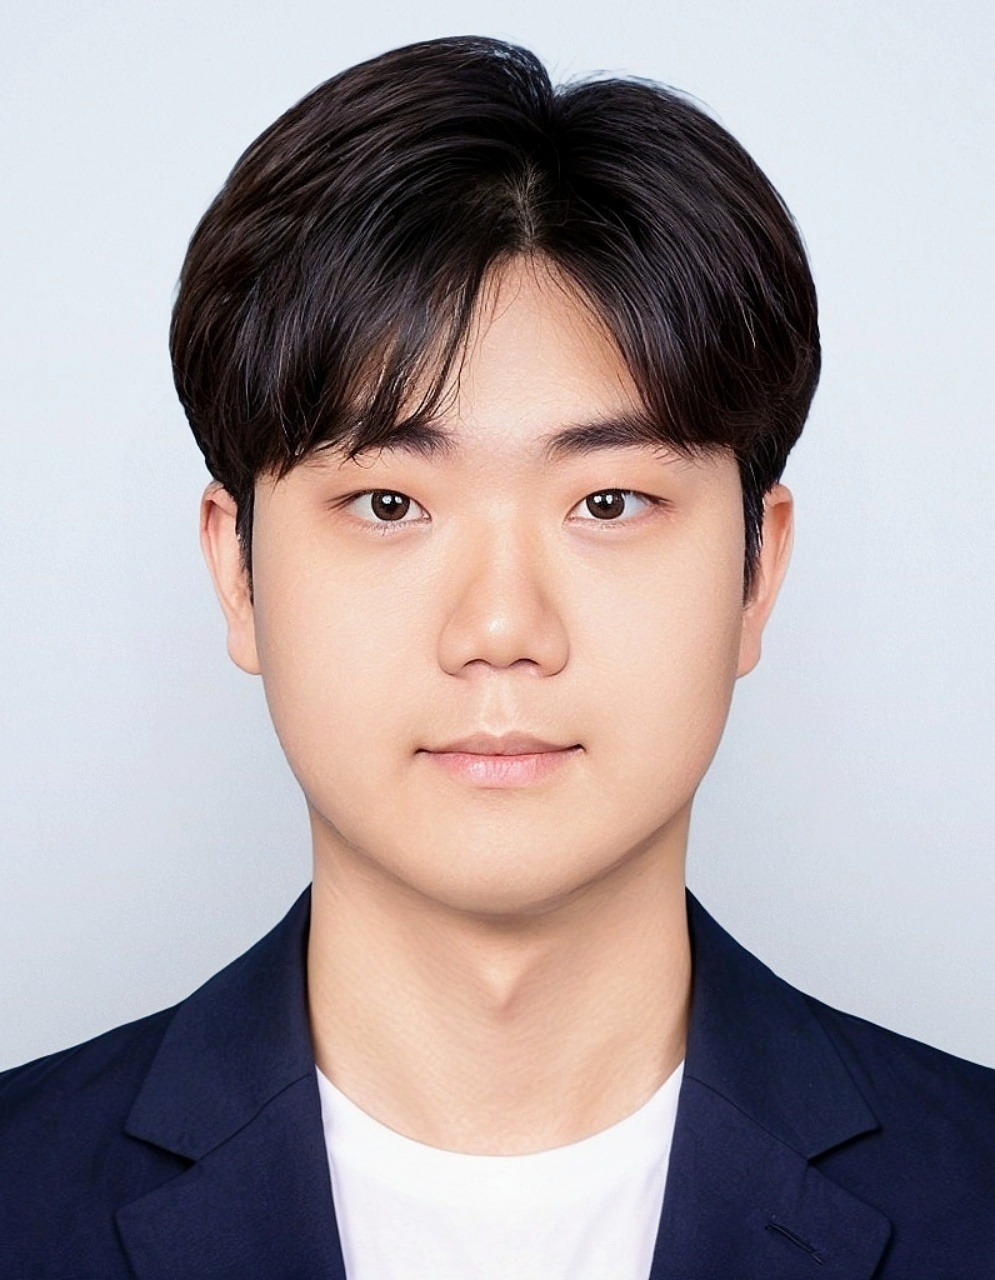
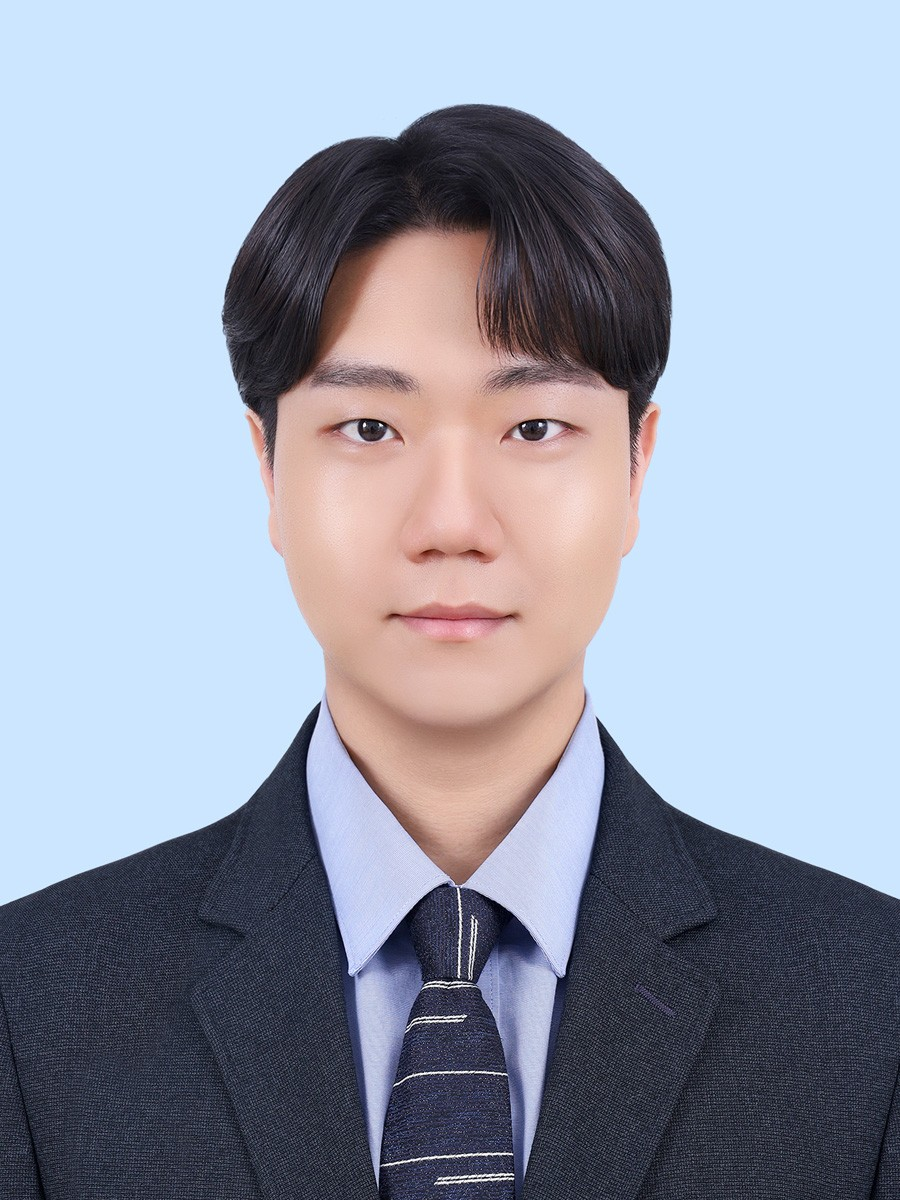
Profile sync 2026-10: first-author ordering, J. Cheminform. submission, new photo
- Order publications by first authorship, then year (newest first)
- Add first-author manuscript submitted to Journal of Cheminformatics (ChIEDiff)
- Fix NeurIPS 2025 page range to the Crossref record; add KCC 2024/2025 page ranges
- Academic service: add WSDM 2027 PC member; remove JBHI entry
- Replace profile photo; cache-busting query on photo references

Claude-Session: https://claude.ai/code/session_01JQCmQSWiyXsNMbZ4kM1eGi

diff --git a/index.html b/index.html
@@ -22,7 +22,7 @@ document.documentElement.setAttribute("data-theme",t);})();
 <meta property="og:description" content="Ph.D. candidate at Yonsei University. Diffusion models for structure-based drug design and molecular selectivity.">
 <!-- NOTE: og:image is a percent-encoded Korean filename. When the photo is renamed to
      assets/profile.jpg, update this URL and the <img> src in the sidebar together. -->
-<meta property="og:image" content="https://dannyjpark.github.io/%EB%B0%95%ED%98%95%EC%A4%80_%EC%82%AC%EC%A7%84.jpeg">
+<meta property="og:image" content="https://dannyjpark.github.io/%EB%B0%95%ED%98%95%EC%A4%80_%EC%82%AC%EC%A7%84.jpeg?v=20261030">
 <meta name="twitter:card" content="summary">
 <link rel="preconnect" href="https://fonts.googleapis.com">
 <link rel="preconnect" href="https://fonts.gstatic.com" crossorigin>
@@ -316,6 +316,9 @@ a:hover{color:#1e40af}
 
 /* ─── PUBLICATIONS ─── */
 .pub-list{display:flex;flex-direction:column;gap:.8rem}
+.pub-group-title{font-family:var(--font-mono);font-size:.68rem;font-weight:600;text-transform:uppercase;letter-spacing:1px;color:var(--text-muted);margin:1.8rem 0 .7rem}
+.pub-group-title:first-of-type{margin-top:0}
+.pub-badge.journal{background:var(--amber-dim);color:var(--amber)}
 .pub-item{
   padding:1.2rem 1.4rem;
   background:var(--bg-card);
@@ -524,7 +527,7 @@ img{color-scheme:light}
   "name": "Hyoungjoon Park",
   "alternateName": "박형준",
   "url": "https://dannyjpark.github.io/",
-  "image": "https://dannyjpark.github.io/%EB%B0%95%ED%98%95%EC%A4%80_%EC%82%AC%EC%A7%84.jpeg",
+  "image": "https://dannyjpark.github.io/%EB%B0%95%ED%98%95%EC%A4%80_%EC%82%AC%EC%A7%84.jpeg?v=20261030",
   "email": "mailto:ktori1361@yonsei.ac.kr",
   "jobTitle": "Ph.D. Candidate",
   "description": "Ph.D. candidate at Yonsei University working on AI-driven drug discovery: diffusion models for structure-based drug design, molecular selectivity, and protein–ligand binding affinity prediction.",
@@ -582,7 +585,7 @@ img{color-scheme:light}
   <!-- PROFILE PHOTO -->
   <div class="profile-photo">
     <!-- To swap the photo, replace the src below (and og:image in <head>). -->
-    <img src="박형준_사진.jpeg" alt="Hyoungjoon Park">
+    <img src="박형준_사진.jpeg?v=20261030" alt="Hyoungjoon Park">
   </div>
 
   <div class="sidebar-name">Hyoungjoon Park</div>
@@ -790,7 +793,24 @@ img{color-scheme:light}
       </div>
       <h2 class="section-title">Publications</h2>
     </div>
+    <h3 class="pub-group-title">First-Author</h3>
     <div class="pub-list">
+      <div class="pub-item">
+        <div class="pub-badges">
+          <span class="pub-badge journal">J. Cheminform.</span>
+          <span class="pub-badge first">1st Author</span>
+          <span class="pub-badge status">Submitted</span>
+        </div>
+        <div class="pub-title-text">Physicochemical Interaction Energy-Driven Diffusion for Docking-Consistent Structure-Based 3D Molecular Generation</div>
+        <div class="pub-authors"><strong>Hyoungjoon Park</strong>, Seungyeon Choi, Hwanhee Kim, Seungyong Lee, Yoonju Kim, Taeil Noh, Minjae Lee, Sanghyun Park</div>
+        <div class="pub-venue-text">Submitted to Journal of Cheminformatics (Collection: AI and XAI in Drug Discovery), October 2026</div>
+        <div class="pub-links">
+          <!-- TODO: add the Research Square "In Review" preprint link once it is posted:
+          <a href="https://doi.org/10.21203/rs.3.rs-XXXXXXX/v1" target="_blank" rel="noopener">Preprint</a> -->
+          <span class="pub-link-muted">Manuscript submitted; not yet peer-reviewed</span>
+        </div>
+        <div class="pub-summary">ChIEDiff adds chemistry-gated intermolecular energy terms (steric repulsion, plus hydrophobic and hydrogen-bond attraction restricted to chemically compatible atom pairs) at the predicted clean ligand pose during diffusion training, and keeps affinity guidance at sampling. Generated poses are evaluated directly on CrossDocked2020, alongside redocked scores, redocking displacement, interaction profiles, and physical-validity checks.</div>
+      </div>
       <div class="pub-item">
         <div class="pub-badges">
           <span class="pub-badge intl">PAKDD 2026</span>
@@ -842,12 +862,36 @@ img{color-scheme:light}
       </div>
       <div class="pub-item">
         <div class="pub-badges">
+          <span class="pub-badge venue">KCC 2025</span>
+          <span class="pub-badge first">1st Author</span>
+          <span class="pub-badge status">Published</span>
+        </div>
+        <div class="pub-title-text" lang="ko">거리 정보를 통합한 분자 그래프 생성을 위한 Diffusion 모델</div>
+        <div class="pub-authors"><strong>Hyoungjoon Park</strong>, Seungyeon Choi, Hwanhee Kim, Seungyong Lee, Yoonju Kim, Sanghyun Park</div>
+        <div class="pub-venue-text">Korea Computer Congress (KCC), Jeju, Korea, pp. 1392–1394, 2025</div>
+        <div class="pub-links"><span class="pub-link-muted">Domestic conference (Korean)</span></div>
+      </div>
+    </div>
+    <h3 class="pub-group-title">Co-Authored</h3>
+    <div class="pub-list">
+      <div class="pub-item">
+        <div class="pub-badges">
+          <span class="pub-badge venue">KCC 2026</span>
+          <span class="pub-badge status">Published</span>
+        </div>
+        <div class="pub-title-text" lang="ko">QEPPI와 생화학적 특성을 이용한 펩타이드의 약물 디자인 당위성 분류 모델</div>
+        <div class="pub-authors">Tae-il Noh, Seungyeon Choi, Hwanhee Kim, <strong>Hyoungjoon Park</strong>, Seungyong Lee, Yoonju Kim, Seulgi Baek, Minjae Lee, Sanghyun Park</div>
+        <div class="pub-venue-text">Korea Computer Congress (KCC), pp. 852–854, 2026</div>
+        <div class="pub-links"><span class="pub-link-muted">Domestic conference (Korean)</span></div>
+      </div>
+      <div class="pub-item">
+        <div class="pub-badges">
           <span class="pub-badge intl">NeurIPS 2025</span>
           <span class="pub-badge status">Published</span>
         </div>
         <div class="pub-title-text">Controllable 3D Molecular Generation for Structure-Based Drug Design Through Bayesian Flow Networks and Gradient Integration</div>
         <div class="pub-authors">Seungyeon Choi, Hwanhee Kim, Chihyun Park, Dahyeon Lee, Seungyong Lee, Yoonju Kim, <strong>Hyoungjoon Park</strong>, Sein Kwon, Youngwan Jo, Sanghyun Park</div>
-        <div class="pub-venue-text">Advances in Neural Information Processing Systems 38 (NeurIPS), pp. 125612–125647, 2025</div>
+        <div class="pub-venue-text">Advances in Neural Information Processing Systems 38 (NeurIPS), pp. 139278–139313, 2025</div>
         <div class="pub-links">
           <a href="https://doi.org/10.52202/085713-4187" target="_blank" rel="noopener">DOI</a>
         </div>
@@ -890,33 +934,12 @@ img{color-scheme:light}
       </div>
       <div class="pub-item">
         <div class="pub-badges">
-          <span class="pub-badge venue">KCC 2026</span>
-          <span class="pub-badge status">Published</span>
-        </div>
-        <div class="pub-title-text" lang="ko">QEPPI와 생화학적 특성을 이용한 펩타이드의 약물 디자인 당위성 분류 모델</div>
-        <div class="pub-authors">Tae-il Noh, Seungyeon Choi, Hwanhee Kim, <strong>Hyoungjoon Park</strong>, Seungyong Lee, Yoonju Kim, Seulgi Baek, Minjae Lee, Sanghyun Park</div>
-        <div class="pub-venue-text">Korea Computer Congress (KCC), pp. 852–854, 2026</div>
-        <div class="pub-links"><span class="pub-link-muted">Domestic conference (Korean)</span></div>
-      </div>
-      <div class="pub-item">
-        <div class="pub-badges">
-          <span class="pub-badge venue">KCC 2025</span>
-          <span class="pub-badge first">1st Author</span>
-          <span class="pub-badge status">Published</span>
-        </div>
-        <div class="pub-title-text" lang="ko">거리 정보를 통합한 분자 그래프 생성을 위한 Diffusion 모델</div>
-        <div class="pub-authors"><strong>Hyoungjoon Park</strong>, Seungyeon Choi, Hwanhee Kim, Seungyong Lee, Yoonju Kim, Sanghyun Park</div>
-        <div class="pub-venue-text">Korea Computer Congress (KCC), Jeju, Korea, 2025</div>
-        <div class="pub-links"><span class="pub-link-muted">Domestic conference (Korean)</span></div>
-      </div>
-      <div class="pub-item">
-        <div class="pub-badges">
           <span class="pub-badge venue">KCC 2024</span>
           <span class="pub-badge status">Published</span>
         </div>
         <div class="pub-title-text" lang="ko">CPU 기반 이미지 분류 모델의 추론 가속화 성능 비교</div>
         <div class="pub-authors">Ki Hoon Kwak, SangPil Cho, HoJun Shin, <strong>Hyoungjoon Park</strong>, GwangHyeon Yun, Young-Rae Cho</div>
-        <div class="pub-venue-text">Korea Computer Congress (KCC), Jeju, Korea, 2024</div>
+        <div class="pub-venue-text">Korea Computer Congress (KCC), Jeju, Korea, pp. 969–971, 2024</div>
         <div class="pub-links"><span class="pub-link-muted">Domestic conference (Korean)</span></div>
       </div>
     </div>
@@ -954,14 +977,10 @@ img{color-scheme:light}
     </div>
     <div class="timeline">
       <div class="timeline-item">
-        <div class="timeline-period">
-          <span class="timeline-badge current">Current</span><br>
-          2026 —
-        </div>
+        <div class="timeline-period">2026</div>
         <div>
-          <div class="timeline-role">Peer Reviewer</div>
-          <div class="timeline-org">IEEE Journal of Biomedical and Health Informatics (JBHI)</div>
-          <div class="timeline-desc">Reviewed 2 manuscripts in 2026.</div>
+          <div class="timeline-role">Program Committee Member</div>
+          <div class="timeline-org">ACM International Conference on Web Search and Data Mining (WSDM 2027)</div>
         </div>
       </div>
     </div>
